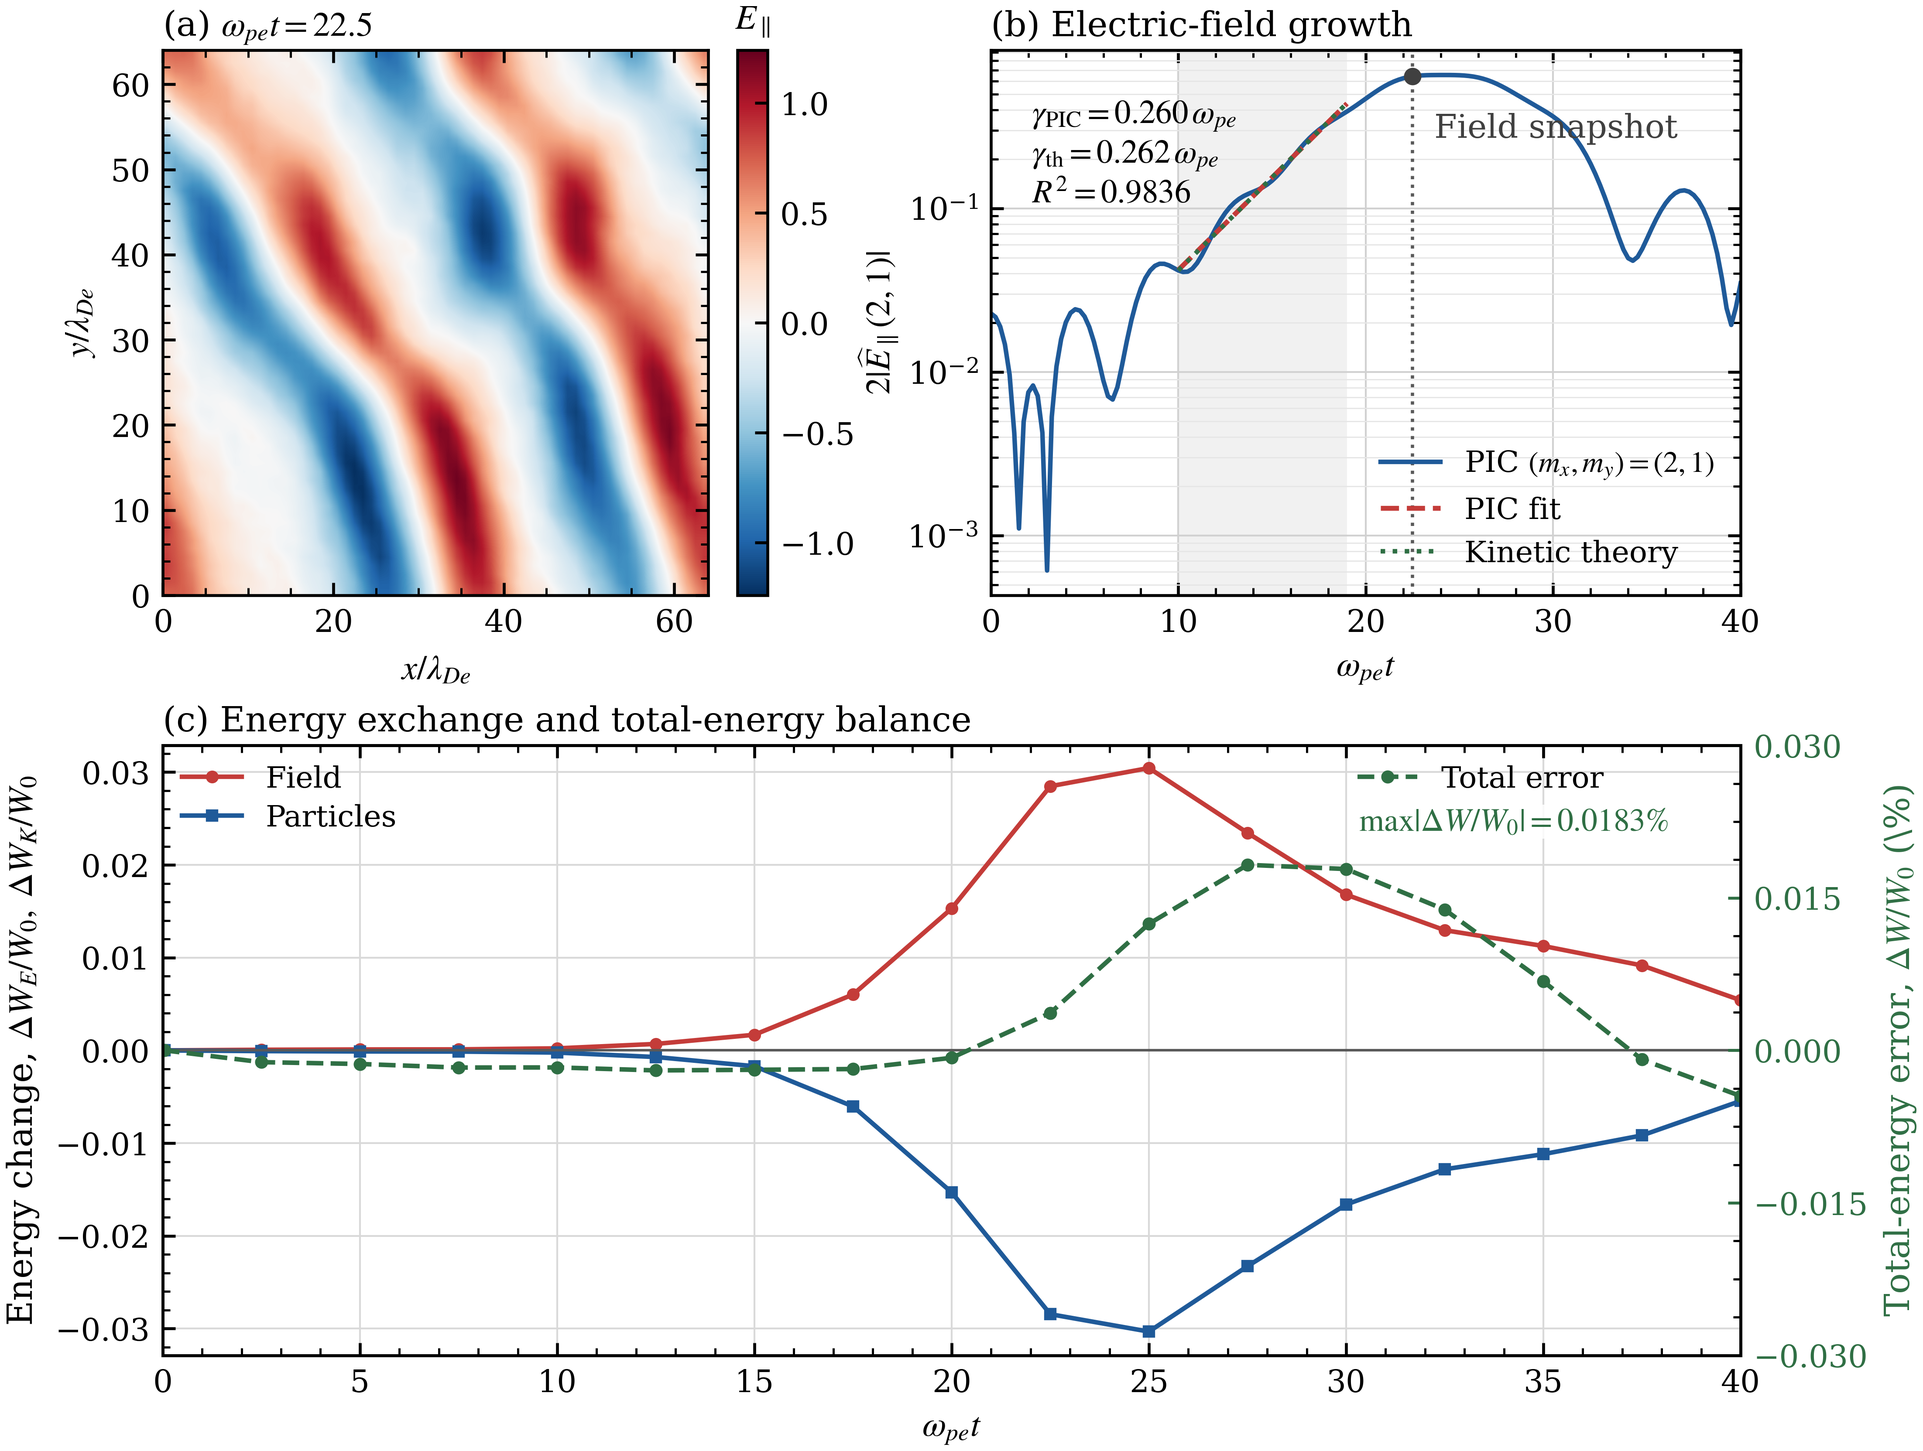
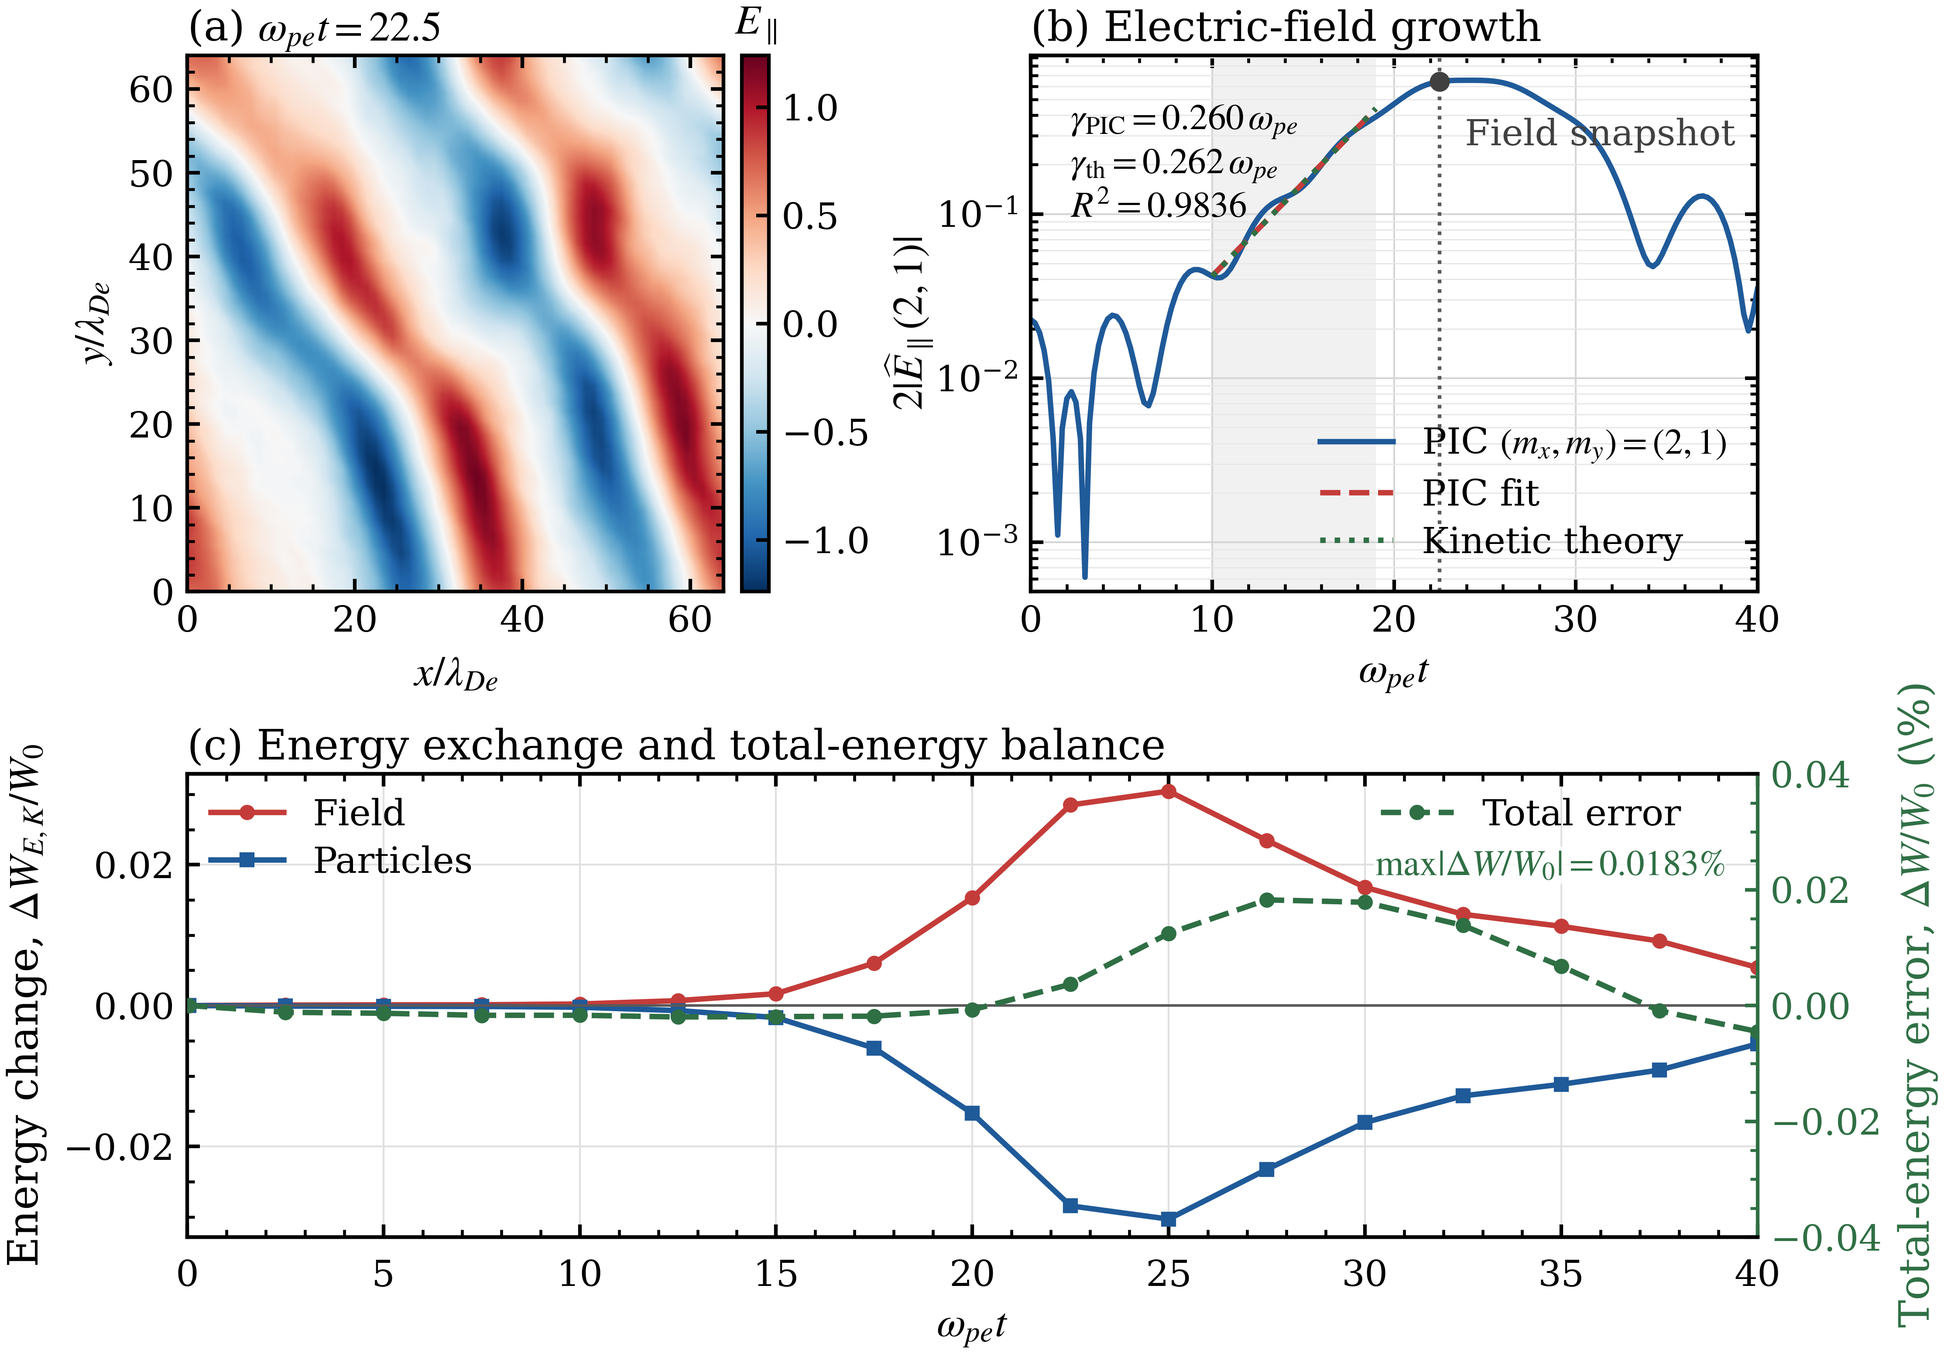
enable OpenMP and improve the example

diff --git a/examples/001_two_stream_2d/plot.py b/examples/001_two_stream_2d/plot.py
@@ -40,28 +40,27 @@ mpl.rcParams.update(
         "font.family": "serif",
         "font.serif": ["DejaVu Serif"],
         "mathtext.fontset": "stix",
-        "font.size": 9.0,
-        "axes.labelsize": 9.5,
-        "axes.titlesize": 9.5,
-        "xtick.labelsize": 8.5,
-        "ytick.labelsize": 8.5,
-        "legend.fontsize": 8.2,
-        "axes.linewidth": 0.8,
+        "font.size": 10.0,
+        "axes.labelsize": 11.5,
+        "axes.titlesize": 11.5,
+        "xtick.labelsize": 10.0,
+        "ytick.labelsize": 10.0,
+        "legend.fontsize": 10.0,
+        "axes.linewidth": 1.0,
         "xtick.direction": "in",
         "ytick.direction": "in",
         "xtick.top": True,
         "ytick.right": True,
-        "xtick.major.width": 0.8,
-        "ytick.major.width": 0.8,
-        "xtick.minor.width": 0.6,
-        "ytick.minor.width": 0.6,
+        "xtick.major.width": 1.0,
+        "ytick.major.width": 1.0,
+        "xtick.minor.width": 0.8,
+        "ytick.minor.width": 0.8,
         "savefig.facecolor": "white",
         "figure.facecolor": "white",
         "pdf.fonttype": 42,
         "ps.fonttype": 42,
     }
 )
-
 
 def indexed_files(label):
     files = {}
@@ -216,17 +215,34 @@ def phase_space_figure(target_times=(0.0, 17.5, 25.0)):
         )
         axis.set_xlim(0.0, 1.0)
         axis.set_ylim(-6.0, 6.0)
+        axis.set_xticks(np.linspace(0.0, 1.0, 6))
+        axis.xaxis.set_major_formatter(mpl.ticker.FormatStrFormatter("%.1f"))
         axis.set_xlabel(r"Wave phase, $\theta/2\pi$")
+        axis.tick_params(axis="x", which="major", pad=6)
         axis.set_title(
             rf"({chr(97 + panel)}) $\omega_{{pe}}t={step * DT:g}$", loc="left", pad=4
         )
         axis.minorticks_on()
         if panel:
             axis.tick_params(axis="y", which="both", labelleft=False)
+
     axes[0].set_ylabel(r"$v_{\parallel}/v_{te}$")
+    axes[0].tick_params(axis="y", which="major", pad=4)
     colorbar = fig.colorbar(image, cax=colorbar_axis)
-    colorbar.ax.set_title(r"$f/f_{\max}$", pad=6)
+    colorbar.ax.set_title(r"$f/f_{\max}$", pad=10)
     colorbar.ax.tick_params(direction="in")
+
+    fig.canvas.draw()
+    panel_position = axes[2].get_position()
+    colorbar_position = colorbar_axis.get_position()
+    colorbar_axis.set_position(
+        [
+            panel_position.x1 + 0.018,
+            panel_position.y0,
+            colorbar_position.width,
+            panel_position.height,
+        ]
+    )
     save_figure(fig, "fig1_phase_space_evolution.png")
 
 
@@ -258,13 +274,15 @@ def field_growth_energy_figure():
     total_error_percent = 100.0 * (energy[:, 3] - initial_total) / initial_total
     maximum_error_percent = float(np.max(np.abs(total_error_percent)))
 
-    fig = plt.figure(figsize=(7.35, 5.70))
+    fig = plt.figure(figsize=(7.35, 5.25))
     outer = fig.add_gridspec(
-        2, 2, width_ratios=(1.0, 1.24), height_ratios=(0.84, 0.94),
-        left=0.090, right=0.910, bottom=0.085, top=0.960,
-        wspace=0.33, hspace=0.26,
+        2, 2, width_ratios=(1.0, 1.25), height_ratios=(1.08, 0.78),
+        left=0.092, right=0.908, bottom=0.095, top=0.955,
+        wspace=0.40, hspace=0.14,
     )
-    field_grid = outer[0, 0].subgridspec(1, 2, width_ratios=(1.0, 0.055), wspace=0.10)
+    field_grid = outer[0, 0].subgridspec(
+        1, 2, width_ratios=(1.0, 0.050), wspace=0.065
+    )
     field_axis = fig.add_subplot(field_grid[0, 0])
     colorbar_axis = fig.add_subplot(field_grid[0, 1])
     growth_axis = fig.add_subplot(outer[0, 1])
@@ -287,26 +305,28 @@ def field_growth_energy_figure():
     colorbar.ax.tick_params(direction="in")
 
     growth_axis.semilogy(
-        times, mode_amplitude, color="#1f5a99", linewidth=1.25,
+        times, mode_amplitude, color="#1f5a99", linewidth=1.50,
         label=rf"PIC $(m_x,m_y)=({MODE_X},{MODE_Y})$",
     )
     growth_axis.semilogy(
         fit_times, fit_values, color="#c43c39", linestyle="--",
-        linewidth=1.35, label="PIC fit",
+        linewidth=1.50, label="PIC fit",
     )
     growth_axis.semilogy(
         fit_times, theory_values, color="#2f6f44", linestyle=":",
-        linewidth=1.25, label="Kinetic theory",
+        linewidth=1.50, label="Kinetic theory",
     )
     growth_axis.axvspan(FIT_LOWER, FIT_UPPER, color="0.5", alpha=0.11, linewidth=0)
-    growth_axis.axvline(snapshot_time, color="0.35", linestyle=":", linewidth=0.9)
+    growth_axis.axvline(snapshot_time, color="0.35", linestyle=":", linewidth=1.0)
     growth_axis.plot(
-        snapshot_time, mode_amplitude[snapshot_index], marker="o", markersize=3.8,
+        snapshot_time, mode_amplitude[snapshot_index], marker="o", markersize=4.5,
         color="0.25", linestyle="none",
     )
     growth_axis.annotate(
         "Field snapshot", xy=(snapshot_time, mode_amplitude[snapshot_index]),
-        xytext=(6, -10), textcoords="offset points", ha="left", va="top", color="0.25",
+        xytext=(7, -10), textcoords="offset points", ha="left", va="top",
+        color="0.25", fontsize=10.0,
+        # bbox={"facecolor": "white", "edgecolor": "none", "alpha": 0.72, "pad": 0.2},
     )
     growth_axis.text(
         0.055, 0.91,
@@ -314,42 +334,59 @@ def field_growth_energy_figure():
         + rf"$\gamma_{{\rm th}}={gamma_theory:.3f}\,\omega_{{pe}}$" + "\n"
         + rf"$R^2={r_squared:.4f}$",
         transform=growth_axis.transAxes, ha="left", va="top",
+        fontsize=10.0
     )
     growth_axis.set_xlabel(r"$\omega_{pe}t$")
-    growth_axis.set_ylabel(r"$2|\widehat{E}_{\parallel}(2,1)|$", labelpad=2)
+    growth_axis.set_ylabel(r"$2|\widehat{E}_{\parallel}(2,1)|$", labelpad=0)
     growth_axis.set_xlim(times.min(), times.max())
     growth_axis.set_xticks(np.arange(0.0, 40.1, 10.0))
+    growth_axis.set_ylim(5.0e-4, growth_axis.get_ylim()[1])
+    growth_axis.set_yticks([1.0e-3, 1.0e-2, 1.0e-1])
     growth_axis.set_title("(b) Electric-field growth", loc="left", pad=4)
-    growth_axis.grid(which="major", color="0.82", linewidth=0.5)
-    growth_axis.grid(which="minor", axis="y", color="0.90", linewidth=0.35)
-    growth_axis.legend(frameon=False, loc="lower right")
+    growth_axis.grid(which="major", color="0.84", linewidth=0.5)
+    growth_axis.grid(which="minor", axis="y", color="0.91", linewidth=0.35)
+    growth_axis.legend(
+        frameon=False, loc="lower right", handlelength=2.0,
+        labelspacing=0.35, borderaxespad=0.45,
+    )
     growth_axis.minorticks_on()
 
     field_line = energy_axis.plot(
         energy_time, field_change, color="#c43c39", marker="o",
-        markersize=2.5, linewidth=1.25, label="Field",
+        markersize=3.2, linewidth=1.50, label="Field",
     )[0]
     particle_line = energy_axis.plot(
         energy_time, kinetic_change, color="#1f5a99", marker="s",
-        markersize=2.3, linewidth=1.25, label="Particles",
+        markersize=3.2, linewidth=1.50, label="Particles",
     )[0]
     total_line = error_axis.plot(
         energy_time, total_error_percent, color="#2f6f44", linestyle="--",
-        marker="o", markersize=2.6, linewidth=1.25, label="Total error",
+        marker="o", markersize=3.2, linewidth=1.50, label="Total error",
     )[0]
     energy_axis.axhline(0.0, color="0.35", linewidth=0.7)
     energy_axis.set_xlabel(r"$\omega_{pe}t$")
-    energy_axis.set_ylabel(r"Energy change, $\Delta W_E/W_0,\; \Delta W_K/W_0$")
+    energy_axis.set_ylabel(r"Energy change, $\Delta W_{E,K}/W_0$")
     error_axis.set_ylabel(r"Total-energy error, $\Delta W/W_0$ (\%)")
-    error_axis.tick_params(axis="y", colors="#2f6f44")
-    error_axis.yaxis.label.set_color("#2f6f44")
+    error_color = "#2f6f44"
+    energy_axis.spines["right"].set_visible(False)
+    energy_axis.tick_params(axis="y", which="both", right=False)
+    error_axis.spines["left"].set_visible(False)
+    error_axis.spines["right"].set_color(error_color)
+    error_axis.spines["right"].set_linewidth(1.0)
+    error_axis.tick_params(
+        axis="y", which="both", left=False, right=True,
+        labelleft=False, labelright=True, colors=error_color,
+    )
+    error_axis.yaxis.label.set_color(error_color)
     energy_limit = 1.08 * max(np.max(abs(field_change)), np.max(abs(kinetic_change)))
     energy_axis.set_ylim(-energy_limit, energy_limit)
-    error_axis.set_ylim(-0.03, 0.03)
-    error_axis.set_yticks([-0.03, -0.015, 0.0, 0.015, 0.03])
+    error_axis.set_ylim(-0.04, 0.04)
+    error_axis.set_yticks([-0.04, -0.02, 0.0, 0.02, 0.04])
     energy_axis.set_xlim(energy_time.min(), energy_time.max())
+    energy_axis.set_xticks(np.arange(0.0, 40.1, 5.0))
+    energy_axis.tick_params(axis="x", which="major", pad=6)
     energy_axis.set_title("(c) Energy exchange and total-energy balance", loc="left", pad=4)
-    energy_axis.grid(which="major", color="0.85", linewidth=0.5)
+    energy_axis.grid(which="major", color="0.88", linewidth=0.5)
     energy_axis.minorticks_on()
     error_axis.minorticks_on()
     left_legend = energy_axis.legend(
@@ -359,12 +396,28 @@ def field_growth_energy_figure():
     energy_axis.add_artist(left_legend)
     right_legend = energy_axis.legend(
         handles=[total_line], frameon=False, loc="upper left",
-        bbox_to_anchor=(0.745, 1.0), handlelength=2.0, borderaxespad=0.25,
+        bbox_to_anchor=(0.745, 1.0), handlelength=2.0,
+        labelspacing=0.35, borderaxespad=0.25,
+    )
+
+    # Render the legends before placing the maximum-error annotation.
+    # Its left edge follows the start of the Total-error legend line, and
+    # its vertical center follows the Particles entry in the left legend.
+    fig.canvas.draw()
+    renderer = fig.canvas.get_renderer()
+    total_handle_box = right_legend.get_lines()[0].get_window_extent(renderer)
+    particle_text_box = left_legend.get_texts()[1].get_window_extent(renderer)
+    maximum_error_position = energy_axis.transAxes.inverted().transform(
+        (
+            total_handle_box.x0,
+            0.5 * (particle_text_box.y0 + particle_text_box.y1),
+        )
     )
     energy_axis.text(
-        0.758, 0.875, rf"$\max |\Delta W/W_0|={maximum_error_percent:.4f}\%$",
-        transform=energy_axis.transAxes, ha="left", va="center", color="#2f6f44",
-        fontsize=1.08 * right_legend.get_texts()[0].get_fontsize(),
+        maximum_error_position[0], maximum_error_position[1],
+        rf"$\max |\Delta W/W_0|={maximum_error_percent:.4f}\%$",
+        transform=energy_axis.transAxes, ha="left", va="center",
+        color=error_color, fontsize=10.0,
         bbox={"facecolor": "white", "edgecolor": "none", "alpha": 0.86, "pad": 0.3},
         zorder=6,
     )

diff --git a/examples/001_two_stream_2d/README.md b/examples/001_two_stream_2d/README.md
@@ -1,40 +1,43 @@
-# 二维静电双流不稳定性
+# Two-dimensional Electrostatic Two-stream Instability
 
-[中文](README.zh-CN.md) | [English](README.md)
+[Chinese](README.zh-CN.md) | [English](README.md)
 
-这是一个紧凑的 2D3V 粒子网格（particle-in-cell, PIC）算例，用于演示如何将
-AlgoPlasma 组件组装成面向具体应用的时间推进程序。算例使用 `I01` 加载粒子，使用
-`B01` 沉积电荷，使用 `D02`、`D05` 和 `D06` 求解静电场，使用 `C01`
-将网格场插值到粒子位置，使用 `A01` 推进粒子速度，并通过 `F02` 和
-`F04` 输出粒子与场数据。主程序负责粒子位置更新、周期性粒子边界条件和
-各计算步骤的执行顺序。
+This compact 2D3V particle-in-cell (PIC) example demonstrates how
+AlgoPlasma components can be assembled into an application-specific
+time-advancement program. The example uses `I01` to load particles, `B01`
+to deposit charge, `D02`, `D05`, and `D06` to solve the electrostatic field,
+`C01` to interpolate grid fields to particle positions, `A01` to advance
+particle velocities, and `F02` and `F04` to output particle and field data.
+The main program controls the particle-position update, periodic particle
+boundary conditions, and the execution order of the computational stages.
 
-归一化周期计算域大小为 `64 x 64`，采用 `64 x 64` 网格，并包含两束
-平均漂移速度分别为 `+/- 3 v_te` 的电子束。其中，
-`v_te = sqrt(k_B T_e / m_e)` 是每束麦克斯韦分布在单个速度方向上的
-标准差。每束电子在每个网格单元中包含 64 个宏粒子。第二束电子复制第一束
-电子的粒子位置并反转所有速度分量，从而形成保持对称性的静启动
-（quiet start）。时间步长
-为 `0.05 / omega_pe`，程序推进 800 步，终止时刻为
-`omega_pe t = 40`。算例通过幅度为 0.005 的纵向粒子位移激发 `(2,1)`
-模态，对应一阶近似下 0.5% 的密度扰动。
+The normalized periodic domain has dimensions `64 x 64` and is discretized
+on a `64 x 64` grid. It contains two electron beams with mean drift
+velocities of `+/- 3 v_te`, where `v_te = sqrt(k_B T_e / m_e)` is the standard
+deviation of each beam's Maxwellian distribution in one velocity direction.
+Each beam contains 64 macroparticles per grid cell. The second beam copies
+the particle positions of the first beam and reverses all velocity components,
+forming a symmetric quiet start. The time step is `0.05 / omega_pe`, and the
+program advances 800 steps to `omega_pe t = 40`. A longitudinal particle
+displacement with an amplitude of 0.005 seeds the `(2,1)` mode, corresponding
+to a 0.5% density perturbation to first order.
 
-## 编译与运行
+## Build and Run
 
-算例依赖 GNU Fortran、CMake、MPI、HYPRE 3.1 或更高版本，以及
-NumPy、SciPy 和 Matplotlib。
+The example requires GNU Fortran, CMake, MPI, HYPRE 3.1 or later, NumPy,
+SciPy, and Matplotlib.
 
-一种已经测试通过的 HYPRE 安装方式是从
-<https://github.com/hypre-space/hypre> 下载 HYPRE，并将 `hypre/`
-目录与 `algoplasma/` 目录平行放置：
+One tested way to install HYPRE is to download it from
+<https://github.com/hypre-space/hypre> and place the `hypre/` directory next
+to the `algoplasma/` directory:
 
 ```text
 parent/
-├── algoplasma/
-└── hypre/
+|-- algoplasma/
+`-- hypre/
 ```
 
-然后编译并安装 HYPRE：
+Then build and install HYPRE:
 
 ```bash
 cd hypre/src
@@ -42,38 +45,44 @@ cd hypre/src
 make install -j 8
 ```
 
-其中 `-j 8` 表示使用 8 个 CPU 核心并行编译。安装完成后，进入本算例目录运行：
+Here, `-j 8` uses eight CPU cores for parallel compilation. After the
+installation is complete, enter the example directory and run:
 
 ```bash
 cd ../../algoplasma/examples/001_two_stream_2d
 ./run.sh
 ```
 
-在上述平行目录结构下，`run.sh` 会自动使用 `hypre/src/hypre` 下的
-HYPRE 安装路径。如果 HYPRE 安装在其他位置，可显式指定安装前缀：
+With the directory layout shown above, `run.sh` automatically uses the HYPRE
+installation under `hypre/src/hypre`. If HYPRE is installed elsewhere, its
+installation prefix can be specified explicitly:
 
 ```bash
 HYPRE_ROOT=/path/to/hypre/src/hypre ./run.sh
 ```
 
-如果已经位于 AlgoPlasma 仓库根目录，则通常直接运行：
+If you are already in the AlgoPlasma repository root, simply run:
 
 ```bash
 cd examples/001_two_stream_2d
 bash run.sh
 ```
 
-当前算例使用单个 MPI 进程运行。除初始时刻和第一个时间步外，程序每隔
-5 步向 `output/` 写出一次场数据，每隔 50 步写出一次粒子数据。应用层
-主程序位于 `src/main.f90`；数组分配、周期性虚拟网格等算例相关细节位于
-`src/two_stream_case.f90`，从而使主程序中的 PIC 循环保持清晰、紧凑。
+The current example runs with a single MPI process. Except at the initial
+state and the first time step, field data are written to `output/` every five
+steps and particle data every 50 steps. The application-level main program is
+located in `src/main.f90`; example-specific details, including array allocation
+and periodic ghost cells, are contained in `src/two_stream_case.f90`, keeping
+the PIC loop in the main program clear and compact.
 
-计算结束后，`plot.py` 会在 `figures/` 目录生成两幅论文用图：
+After the calculation, `plot.py` generates two publication figures in the
+`figures/` directory:
 
 - `fig1_phase_space_evolution.png`
 - `fig2_field_growth_energy.png`
 
-如需删除编译文件、模拟输出和生成的图片，使算例恢复到初始状态，可运行：
+To remove the build files, simulation output, and generated figures and return
+the example to its initial state, run:
 
 ```bash
 ./clean.sh

diff --git a/docs/source/examples/001_two_stream_2d.rst b/docs/source/examples/001_two_stream_2d.rst
@@ -200,7 +200,7 @@
 
    .. figure:: ../images/examples/001_two_stream_2d/fig1_phase_space_evolution.png
       :align: center
-      :width: 75%
+      :width: 60%
 
       :math:`\omega_{pe}t=0`、17.5 和 25 时沿波矢方向的电子相空间分布。
 
@@ -236,7 +236,7 @@
 
    .. figure:: ../images/examples/001_two_stream_2d/fig2_field_growth_energy.png
       :align: center
-      :width: 75%
+      :width: 65%
 
       双流不稳定性示例的电场结构、模态增长和能量平衡。(a) 在
       :math:`\omega_{pe}t=22.5` 时的平行电场；(b) :math:`(2,1)` 模态幅值及
@@ -463,7 +463,7 @@
 
    .. figure:: ../images/examples/001_two_stream_2d/fig1_phase_space_evolution.png
       :align: center
-      :width: 75%
+      :width: 60%
 
       Electron phase-space distributions in wave-aligned coordinates at
       :math:`\omega_{pe}t=0`, 17.5, and 25.
@@ -504,7 +504,7 @@
 
    .. figure:: ../images/examples/001_two_stream_2d/fig2_field_growth_energy.png
       :align: center
-      :width: 75%
+      :width: 65%
 
       Electric-field structure, mode growth, and energy balance in the
       two-stream example. (a) Parallel electric field at
